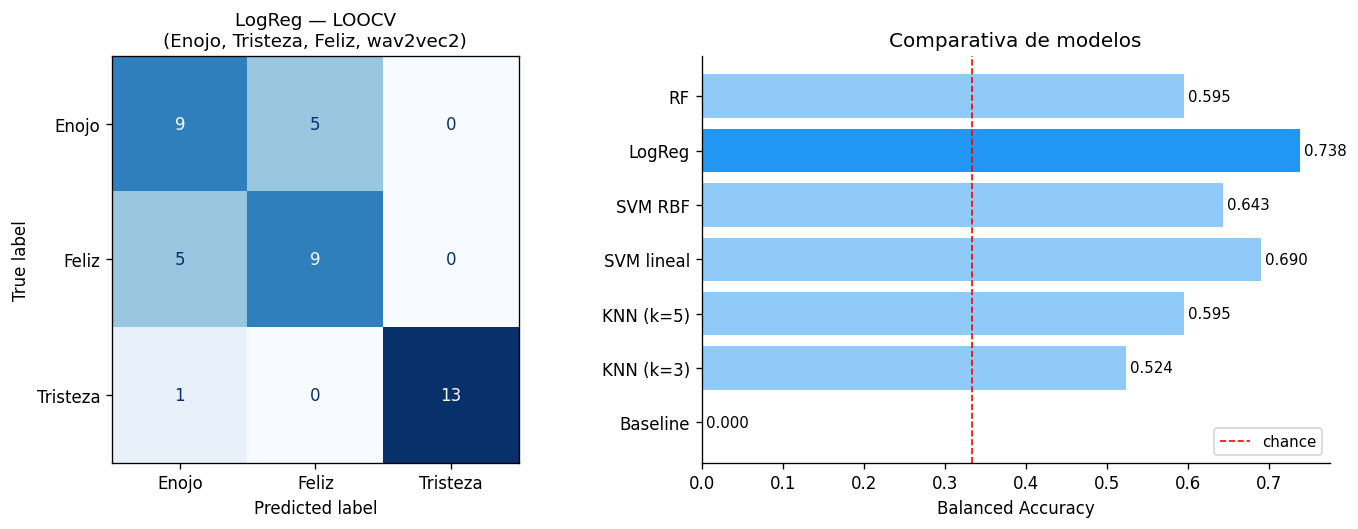
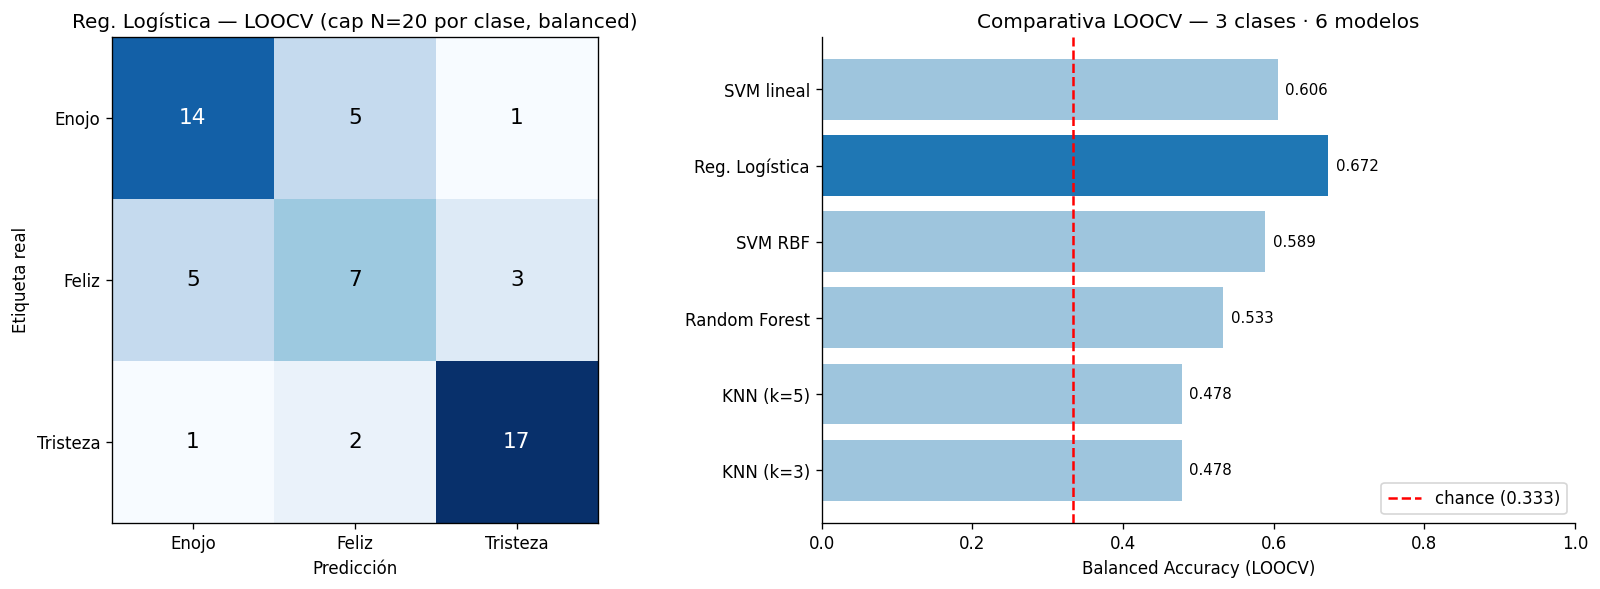
feat: regenerar figuras del dashboard desde datos actuales
Las figuras se generaban antes desde notebooks con datos viejos (N=14,
Tranquilidad, etc.) y se volvian obsoletas en cada cambio. Ahora hay
un script dedicado que lee el cache, los .joblib y los reportes JSON
para producir:

- resultados_v2.png: matriz de confusion LOOCV del best model + barchart
  comparativo de los 6 modelos con la cifra real reportada.
- separabilidad_v2.png: PCA y t-SNE de los embeddings actualmente en
  cache, con conteo real por clase.
- holdout_por_modelo.png (nueva): recall por modelo y clase sobre el
  set holdout (audios no usados en training). Confirma visualmente la
  mejora N=14 -> N=20 en generalizacion.

Correr `python scripts/regenerar_figuras.py` despues de cada cambio
en el pipeline para mantener las graficas del dashboard consistentes.

diff --git a/scripts/regenerar_figuras.py b/scripts/regenerar_figuras.py
@@ -1,0 +1,218 @@
+"""Regenera las figuras del dashboard usando el cache y modelos ACTUALES.
+
+Produce:
+  - outputs/figuras/resultados_v2.png   (CM del mejor modelo + barchart LOOCV)
+  - outputs/figuras/separabilidad_v2.png (PCA + t-SNE de los embeddings activos)
+  - outputs/figuras/holdout_por_modelo.png (recall holdout por modelo y clase)
+
+Usa los .joblib serializados, el cache de embeddings, y reporte_filtrado_v2.csv
+para reflejar exactamente lo que el backend está sirviendo.
+"""
+
+import json
+import os
+import sys
+import warnings
+from collections import Counter
+
+import joblib
+import librosa
+import numpy as np
+import pandas as pd
+import matplotlib.pyplot as plt
+import torch
+from sklearn.decomposition import PCA
+from sklearn.manifold import TSNE
+from sklearn.metrics import confusion_matrix
+from sklearn.preprocessing import StandardScaler
+from transformers import Wav2Vec2Model, Wav2Vec2Processor
+
+warnings.filterwarnings("ignore")
+
+sys.path.insert(0, os.path.dirname(os.path.dirname(os.path.abspath(__file__))))
+from config import ACTIVE_CLASSES
+
+CACHE = os.path.join("outputs", "embeddings_v2.npz")
+PREDS_JSON = os.path.join("outputs", "predicciones_loocv.json")
+METRICS = os.path.join("outputs", "model_metrics.json")
+REPORTE = os.path.join("outputs", "reporte_filtrado_v2.csv")
+FIG_DIR = os.path.join("outputs", "figuras")
+DATA_DIR = os.path.join("data", "AUDIOS MACHINE LEARNING")
+MODEL_DIR = os.path.join("outputs", "modelos")
+TARGET_SR = 16000
+MAX_DURATION = 10.0
+
+CLASS_COLOR = {"Enojo": "#DD8452", "Tristeza": "#C44E52", "Feliz": "#E377C2"}
+MODEL_ORDER = ["svm_lineal", "logreg", "svm_rbf", "rf", "knn_k5", "knn_k3"]
+
+
+def figura_resultados():
+    """CM del mejor modelo + barchart LOOCV de todos los modelos."""
+    with open(METRICS) as f:
+        metrics = json.load(f)
+    with open(PREDS_JSON) as f:
+        preds = json.load(f)
+
+    best_key = metrics["best_model"]
+    best_info = preds["models"][best_key]
+    classes = best_info["classes_order"]
+
+    y_true = [p["clase_real"] for p in best_info["predictions"]]
+    y_pred = [p["prediccion"] for p in best_info["predictions"]]
+    cm = confusion_matrix(y_true, y_pred, labels=classes)
+
+    fig, axes = plt.subplots(1, 2, figsize=(14, 5))
+
+    # --- Matriz de confusión ---
+    ax = axes[0]
+    im = ax.imshow(cm, cmap="Blues")
+    ax.set_xticks(range(len(classes)))
+    ax.set_yticks(range(len(classes)))
+    ax.set_xticklabels(classes)
+    ax.set_yticklabels(classes)
+    ax.set_xlabel("Predicción")
+    ax.set_ylabel("Etiqueta real")
+    ax.set_title(f"{best_info['label']} — LOOCV (cap N={metrics['samples_per_class']} por clase, balanced)")
+    thr = cm.max() / 2.0
+    for i in range(cm.shape[0]):
+        for j in range(cm.shape[1]):
+            ax.text(j, i, str(cm[i, j]), ha="center", va="center",
+                    color="white" if cm[i, j] > thr else "black", fontsize=13)
+
+    # --- Barchart comparativa ---
+    ax = axes[1]
+    labels, bals, accs = [], [], []
+    for key in MODEL_ORDER:
+        m = metrics["models"].get(key)
+        if m:
+            labels.append(m["label"])
+            bals.append(m["balanced_accuracy"])
+            accs.append(m["accuracy"])
+    y_pos = np.arange(len(labels))
+    bars = ax.barh(y_pos, bals, color=["#1f77b4" if k == best_key else "#9ec5dd" for k in MODEL_ORDER if metrics["models"].get(k)])
+    ax.set_yticks(y_pos)
+    ax.set_yticklabels(labels)
+    ax.invert_yaxis()
+    ax.axvline(metrics["chance_accuracy"], color="red", linestyle="--", label=f"chance ({metrics['chance_accuracy']:.3f})")
+    ax.set_xlabel("Balanced Accuracy (LOOCV)")
+    ax.set_xlim(0, 1.0)
+    for bar, v in zip(bars, bals):
+        ax.text(v + 0.01, bar.get_y() + bar.get_height() / 2, f"{v:.3f}", va="center", fontsize=9)
+    ax.set_title(f"Comparativa LOOCV — {len(ACTIVE_CLASSES)} clases · {sum(metrics['models'][k]['accuracy'] is not None for k in metrics['models'])} modelos")
+    ax.legend(loc="lower right")
+    ax.spines[["top", "right"]].set_visible(False)
+
+    fig.tight_layout()
+    out = os.path.join(FIG_DIR, "resultados_v2.png")
+    fig.savefig(out, dpi=120, bbox_inches="tight")
+    plt.close(fig)
+    print(f"  ✓ {out}")
+
+
+def figura_separabilidad():
+    """PCA + t-SNE de los embeddings actuales."""
+    c = np.load(CACHE, allow_pickle=True)
+    X = c["X"]
+    y = c["y"]
+    X_sc = StandardScaler().fit_transform(X)
+    X_pca = PCA(n_components=2, random_state=42).fit_transform(X_sc)
+    X_tsne = TSNE(n_components=2, perplexity=5, random_state=42, init="pca").fit_transform(X_sc)
+
+    fig, axes = plt.subplots(1, 2, figsize=(13, 5))
+    for ax, proj, titulo in [(axes[0], X_pca, "PCA 2D"), (axes[1], X_tsne, "t-SNE 2D (perplexity=5)")]:
+        for clase in ACTIVE_CLASSES:
+            mask = y == clase
+            ax.scatter(proj[mask, 0], proj[mask, 1],
+                       c=CLASS_COLOR.get(clase, "#777"),
+                       label=f"{clase} (n={int(mask.sum())})",
+                       s=60, alpha=0.8, edgecolor="white")
+        ax.set_title(titulo)
+        ax.legend(title="Clase", fontsize=9)
+        ax.spines[["top", "right"]].set_visible(False)
+
+    n_per = ", ".join(f"{c}={int(np.sum(y == c))}" for c in ACTIVE_CLASSES)
+    fig.suptitle(f"Separabilidad — embeddings wav2vec2 ({n_per})", fontsize=12)
+    fig.tight_layout()
+    out = os.path.join(FIG_DIR, "separabilidad_v2.png")
+    fig.savefig(out, dpi=120, bbox_inches="tight")
+    plt.close(fig)
+    print(f"  ✓ {out}")
+
+
+def figura_holdout():
+    """Bar chart recall por modelo y clase sobre el set HOLDOUT (audios no-training)."""
+    c = np.load(CACHE, allow_pickle=True)
+    training = set(c["files"].tolist())
+    rep = pd.read_csv(REPORTE)
+
+    # Embeddings holdout por clase
+    print("  Computando embeddings holdout para la figura...")
+    proc = Wav2Vec2Processor.from_pretrained("facebook/wav2vec2-base")
+    wav = Wav2Vec2Model.from_pretrained("facebook/wav2vec2-base")
+    wav.eval()
+
+    def emb(ruta):
+        y, _ = librosa.load(ruta, sr=TARGET_SR, mono=True, duration=MAX_DURATION)
+        inp = proc(y, sampling_rate=TARGET_SR, return_tensors="pt", padding=True)
+        with torch.no_grad():
+            return wav(inp.input_values).last_hidden_state.mean(dim=1).squeeze().numpy().astype(np.float32)
+
+    holdout_X = {}
+    for clase in ACTIVE_CLASSES:
+        score_col = {"Enojo": "score_enojo", "Tristeza": "score_tristeza", "Feliz": "score_feliz"}[clase]
+        hold = rep[(rep["clase_original"] == clase) & (~rep["archivo"].isin(training))].sort_values(score_col, ascending=False)
+        embs = []
+        for _, row in hold.iterrows():
+            ruta = os.path.join(DATA_DIR, clase, row["archivo"])
+            if os.path.exists(ruta):
+                embs.append(emb(ruta))
+        holdout_X[clase] = np.vstack(embs) if embs else np.empty((0, 768))
+
+    # Recall por modelo y clase
+    fig, ax = plt.subplots(figsize=(11, 5))
+    n_classes = len(ACTIVE_CLASSES)
+    x = np.arange(len(MODEL_ORDER))
+    width = 0.25
+
+    with open(METRICS) as f:
+        metrics = json.load(f)
+
+    for i, clase in enumerate(ACTIVE_CLASSES):
+        recalls = []
+        for k in MODEL_ORDER:
+            path = os.path.join(MODEL_DIR, f"{k}.joblib")
+            if not os.path.exists(path) or len(holdout_X[clase]) == 0:
+                recalls.append(0)
+                continue
+            clf = joblib.load(path)
+            preds = clf.predict(holdout_X[clase])
+            recalls.append(float(np.mean(preds == clase)))
+        bars = ax.bar(x + (i - 1) * width, recalls, width,
+                      color=CLASS_COLOR.get(clase), label=f"{clase} (n={len(holdout_X[clase])})")
+        for b, v in zip(bars, recalls):
+            if v > 0:
+                ax.text(b.get_x() + b.get_width() / 2, v + 0.01, f"{v:.2f}", ha="center", fontsize=8)
+
+    ax.set_xticks(x)
+    ax.set_xticklabels([metrics["models"][k]["label"] for k in MODEL_ORDER], rotation=15, ha="right")
+    ax.set_ylabel("Recall sobre holdout (audios NO usados en training)")
+    ax.set_ylim(0, 1.05)
+    ax.axhline(0.5, color="gray", linestyle=":", alpha=0.5)
+    ax.set_title("Generalización a holdout — recall por modelo y clase")
+    ax.legend(loc="upper right")
+    ax.spines[["top", "right"]].set_visible(False)
+
+    fig.tight_layout()
+    out = os.path.join(FIG_DIR, "holdout_por_modelo.png")
+    fig.savefig(out, dpi=120, bbox_inches="tight")
+    plt.close(fig)
+    print(f"  ✓ {out}")
+
+
+if __name__ == "__main__":
+    os.makedirs(FIG_DIR, exist_ok=True)
+    print("Regenerando figuras…")
+    figura_resultados()
+    figura_separabilidad()
+    figura_holdout()
+    print("Listo.")
